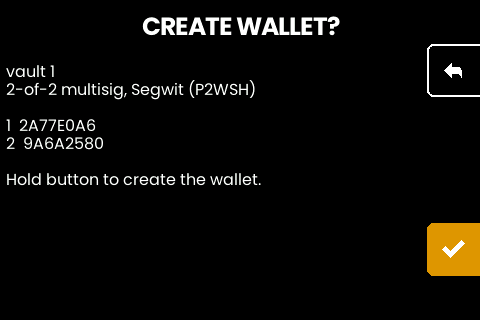
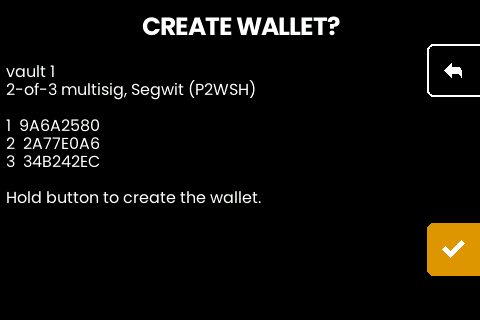
docs: one wallet through the whole manual, both descriptor endings
The walk changed wallets mid-page: the cosigner screen showed three,
the threshold screen showed a 2-of-2, and every later frame modeled
the setup that loses funds to one lost seed. The shoot now walks the
manual's single wallet end to end — the 2-of-3 of bacon, oil and
pizza, titled as typed — and the plate renders draw the same wallet,
so the fingerprints on the review, the export, the gates and the
steel all agree. The golden test's wallet stays pinned to the
emulator fixtures; pizza replaces rug so the walk's phrases stay
nonsense without a story attached.

The walk also no longer stops at the choice screen: it takes ONE
PLATE through the variant list to the plate preview, backs out, and
takes SPLIT through the pairing gate to cosigner 1's share preview,
so the manual shows both descriptor endings the machine offers.

Changed region(s): [[0.0, 0.375, 0.5312, 0.6562], [0.0938, 0.2812, 0.125, 0.3125]]

diff --git a/gui/uishots_test.go b/gui/uishots_test.go
@@ -14,6 +14,7 @@ import (
 
 	qr "github.com/seedhammer/kortschak-qr"
 	"seedhammer.com/backup"
+	"seedhammer.com/bip380"
 	"seedhammer.com/bip39"
 	"seedhammer.com/engrave"
 	"seedhammer.com/font/sh"
@@ -91,6 +92,28 @@ func (s *shotUI) await(marker string) {
 	awaitUI(s.t, s.frame, marker)
 }
 
+// awaitAny pumps frames until one of the markers renders and reports
+// which, for the walk's few genuinely conditional screens (the plate
+// size question only appears when the layout also fits small).
+func (s *shotUI) awaitAny(markers ...string) string {
+	s.t.Helper()
+	last := ""
+	for range 10000 {
+		content, ok := s.frame()
+		if !ok {
+			s.t.Fatalf("flow ended waiting for any of %v", markers)
+		}
+		for _, m := range markers {
+			if uiContains(content, m) {
+				return m
+			}
+		}
+		last = content
+	}
+	s.t.Fatalf("none of %v appeared; last frame: %q", markers, last)
+	return ""
+}
+
 func (s *shotUI) pump(n int) {
 	for range n {
 		s.frame()
@@ -141,8 +164,16 @@ func TestUIShots(t *testing.T) {
 	t.Run("plates", func(t *testing.T) { shootPlates(t, *uishotsDir) })
 }
 
-// shootMultisig walks the builder end to end: the fixture 2-of-2 the
-// flow test drives, with a detour through the passphrase warning.
+// shotSeedPizza is the manual's third cosigner: the fixture pool's
+// pizza phrase, chosen over rug…sad so the walk's seeds read as pure
+// nonsense with no story attached.
+const shotSeedPizza = "pizza pizza pizza pizza pizza pizza pizza pizza pizza pizza pizza about"
+
+// shootMultisig walks the builder end to end as the manual's one
+// wallet: the 2-of-3 of bacon, oil and pizza, titled vault 1 — the
+// same wallet the plate renders draw. After the export it walks BOTH
+// descriptor endings: the complete descriptor on one plate, then the
+// split across the cosigner plates.
 func shootMultisig(t *testing.T, dir string) {
 	nfc := newTestNFC()
 	s := newShotUI(t, dir, shotPlatform(nfc), func(ctx *Context) {
@@ -164,13 +195,11 @@ func shootMultisig(t *testing.T, dir string) {
 
 	s.await("How many keys share the wallet?")
 	s.capture("msw-03-cosigners")
-	click(&s.ctx.Router, Up) // 2 COSIGNERS
-	s.pump(2)
-	click(&s.ctx.Router, Button3)
+	click(&s.ctx.Router, Button3) // 3 COSIGNERS, the preset
 
 	s.await("How many must sign to spend?")
 	s.capture("msw-04-threshold")
-	click(&s.ctx.Router, Button3) // 2 OF 2
+	click(&s.ctx.Router, Button3) // 2 OF 3, the preset
 
 	s.await("Add the cosigner's key")
 	s.capture("msw-05-source")
@@ -180,8 +209,8 @@ func shootMultisig(t *testing.T, dir string) {
 
 	s.await("Tap the cosigner's seed")
 	s.capture("msw-06-tap-seed")
-	nfc.payloads <- []byte(goldenSeedOil)
-	s.await("oil")
+	nfc.payloads <- []byte(goldenSeedBacon)
+	s.await("bacon")
 	s.capture("msw-07-seed-review")
 	click(&s.ctx.Router, Button3)
 
@@ -200,21 +229,29 @@ func shootMultisig(t *testing.T, dir string) {
 	s.capture("msw-09-cosigner-confirm")
 	click(&s.ctx.Router, Button3)
 
-	// Cosigner 2, without detours.
-	s.await("Cosigner 2 of 2")
-	click(&s.ctx.Router, Down)
-	s.pump(2)
-	click(&s.ctx.Router, Button3)
-	s.await("Tap the cosigner's seed")
-	nfc.payloads <- []byte(goldenSeedBacon)
-	s.await("bacon")
-	click(&s.ctx.Router, Button3)
-	s.await("Add a passphrase to this seed?")
-	click(&s.ctx.Router, Button3)
-	s.await("Confirm to add this cosigner")
-	click(&s.ctx.Router, Button3)
+	// Cosigners 2 and 3, without detours.
+	for _, c := range []struct{ seed, word string }{
+		{goldenSeedOil, "oil"},
+		{shotSeedPizza, "pizza"},
+	} {
+		s.await("Add the cosigner's key")
+		click(&s.ctx.Router, Down)
+		s.pump(2)
+		click(&s.ctx.Router, Button3)
+		s.await("Tap the cosigner's seed")
+		nfc.payloads <- []byte(c.seed)
+		s.await(c.word)
+		click(&s.ctx.Router, Button3)
+		s.await("Add a passphrase to this seed?")
+		click(&s.ctx.Router, Button3)
+		s.await("Confirm to add this cosigner")
+		click(&s.ctx.Router, Button3)
+	}
 
 	s.await("Create Wallet?")
+	s.await("9A6A2580")
+	s.await("2A77E0A6")
+	s.await("34B242EC")
 	s.capture("msw-10-review")
 	press(&s.ctx.Router, Button3)
 	s.frame()
@@ -229,24 +266,58 @@ func shootMultisig(t *testing.T, dir string) {
 	s.capture("msw-12-first-address")
 	click(&s.ctx.Router, Button3)
 
-	s.await("Cosigner 1 of 2, 2A77E0A6")
+	// The three seed plates, skipped: steel is the split how-to's job.
+	s.await("Cosigner 1 of 3, 9A6A2580")
 	s.capture("msw-13-seed-plate-gate")
-	click(&s.ctx.Router, Down)
-	s.pump(2)
-	click(&s.ctx.Router, Button3) // SKIP
-	s.await("Cosigner 2 of 2, 9A6A2580")
-	click(&s.ctx.Router, Down)
-	s.pump(2)
-	click(&s.ctx.Router, Button3) // SKIP
+	for _, mfp := range []string{"9A6A2580", "2A77E0A6", "34B242EC"} {
+		s.await(mfp)
+		click(&s.ctx.Router, Down)
+		s.pump(2)
+		click(&s.ctx.Router, Button3) // SKIP
+	}
 
 	s.await("Engrave Descriptor")
 	s.capture("msw-14-descriptor")
 	click(&s.ctx.Router, Button3)
-	s.await("SPLIT: 2 PLATES")
+	s.await("SPLIT: 3 PLATES")
 	s.capture("msw-15-split-choice")
-	click(&s.ctx.Router, Button1) // back out; the split how-to owns the rest
+
+	// Ending one: the complete descriptor on a single plate.
+	click(&s.ctx.Router, Button3) // ONE PLATE, the first row
+	if s.awaitAny("Plate Size", "Choose engraving") == "Plate Size" {
+		click(&s.ctx.Router, Down) // SQUARE PLATE
+		s.pump(2)
+		click(&s.ctx.Router, Button3)
+		s.await("Choose engraving")
+	}
+	s.capture("msw-16-one-plate-variants")
+	click(&s.ctx.Router, Button3) // TEXT + QR
+	s.await("mm")                 // the engrave screen's dims line
+	s.capture("msw-17-descriptor-plate")
+	click(&s.ctx.Router, Button1) // back out without cutting
+
+	// Ending two: the split across the cosigner plates.
 	s.await("Engrave Descriptor")
-	click(&s.ctx.Router, Button1)
+	click(&s.ctx.Router, Button3)
+	s.await("SPLIT: 3 PLATES")
+	click(&s.ctx.Router, Down)
+	s.pump(2)
+	click(&s.ctx.Router, Button3)
+	s.await("For cosigner 9A6A2580")
+	s.capture("msw-18-share-gate")
+	click(&s.ctx.Router, Button3) // ENGRAVE PLATE
+	s.await("mm")
+	s.capture("msw-19-share-plate")
+	click(&s.ctx.Router, Button1) // back out without cutting
+
+	// Skip the set to its end; a fully skipped tail completes it and
+	// the builder finishes.
+	for range 3 {
+		s.await("of 3")
+		click(&s.ctx.Router, Down)
+		s.pump(2)
+		click(&s.ctx.Router, Button3) // SKIP
+	}
 	s.drain()
 }
 
@@ -378,6 +449,29 @@ func renderPlate(t *testing.T, dir, name string, plan engrave.Engraving, params 
 	writePNG(t, dir, name, img)
 }
 
+// manualDescriptor is the manual's one wallet, assembled the way the
+// builder does: the 2-of-3 of bacon, oil and pizza that every
+// screenshot walks, titled as typed there. The golden test's wallet
+// (bacon, oil, rug) stays pinned to the emulator fixtures; this one
+// exists so the manual never changes wallets mid-page.
+func manualDescriptor(t *testing.T) *bip380.Descriptor {
+	t.Helper()
+	desc := &bip380.Descriptor{
+		Title:     "vault 1",
+		Script:    bip380.P2WSH,
+		Type:      bip380.SortedMulti,
+		Threshold: 2,
+	}
+	for _, words := range []string{goldenSeedBacon, goldenSeedOil, shotSeedPizza} {
+		key, err := cosignerKey(goldenMnemonic(t, words), "")
+		if err != nil {
+			t.Fatal(err)
+		}
+		desc.Keys = append(desc.Keys, key)
+	}
+	return desc
+}
+
 // shootPlates renders the finished plates of the manual's wallet: the
 // titled small seed plate, the 2-of-3 descriptor as one plate and as
 // cosigner 1's share, and a titled passphrase plate.
@@ -395,7 +489,7 @@ func shootPlates(t *testing.T, dir string) {
 	}
 	renderPlate(t, dir, "plate-seed-small-titled", plan, params, SmallPlate)
 
-	desc := goldenDescriptor(t)
+	desc := manualDescriptor(t)
 	labels, texts, qrText, err := fitDescriptor(params, SquarePlate, desc, nil)
 	if err != nil {
 		t.Fatal(err)

diff --git a/docs/howto-multisig-wallet.md b/docs/howto-multisig-wallet.md
@@ -104,13 +104,29 @@ changes.
 
 8. **Cut the plates.** Each entrusted seed offers its seed plate (titled,
    with the cosigner's fingerprint on the gate) and, if set, its
-   passphrase plate. Then the descriptor runs the ordinary machinery: ONE
-   PLATE, SPLIT: N PLATES, or N FULL COPIES, exactly as
-   [the split how-to](howto-multisig-plates.md) describes, shares paired
-   to cosigners by fingerprint.
+   passphrase plate.
 
    ![A cosigner's seed plate gate](images/msw-13-seed-plate-gate.png)
+
+   Then the descriptor, through the machinery every scanned multisig
+   runs. The choice screen offers both endings:
+
    ![One plate or the cosigner split](images/msw-15-split-choice.png)
+
+   **ONE PLATE** cuts the complete descriptor onto a single plate: pick
+   the variant (TEXT + QR holds both recovery paths) and the engrave
+   screen shows the plate before anything moves.
+
+   ![Choosing the single plate's variant](images/msw-16-one-plate-variants.png)
+   ![The complete descriptor plate before the cut](images/msw-17-descriptor-plate.png)
+
+   **SPLIT: N PLATES** cuts one share per cosigner instead, paired to its
+   seed plate by fingerprint, exactly as
+   [the split how-to](howto-multisig-plates.md) describes. Each plate
+   opens on its pairing gate and previews its share before the cut:
+
+   ![The share plate's pairing gate](images/msw-18-share-gate.png)
+   ![Cosigner 1's share plate before the cut](images/msw-19-share-plate.png)
 
    The single descriptor plate as engraved, title above the descriptor,
    rendered from the same planned strokes the machine cuts:
